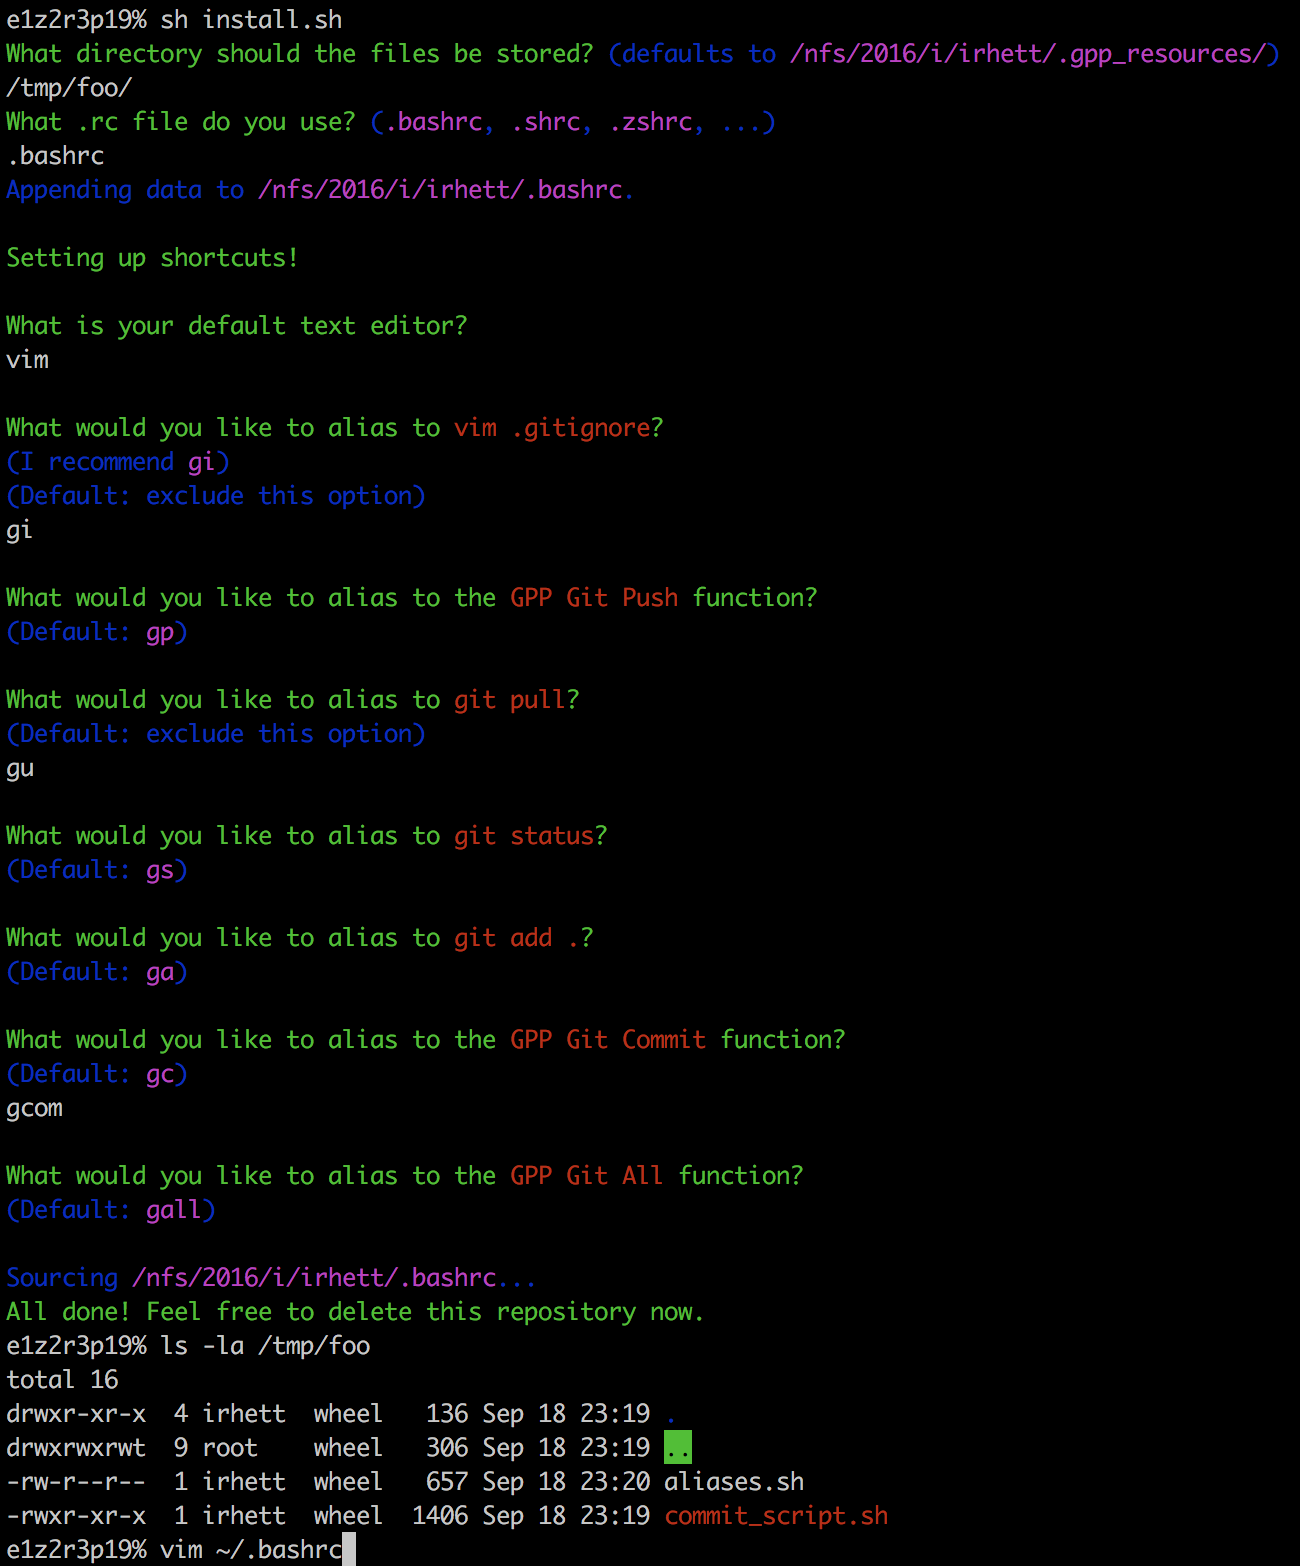
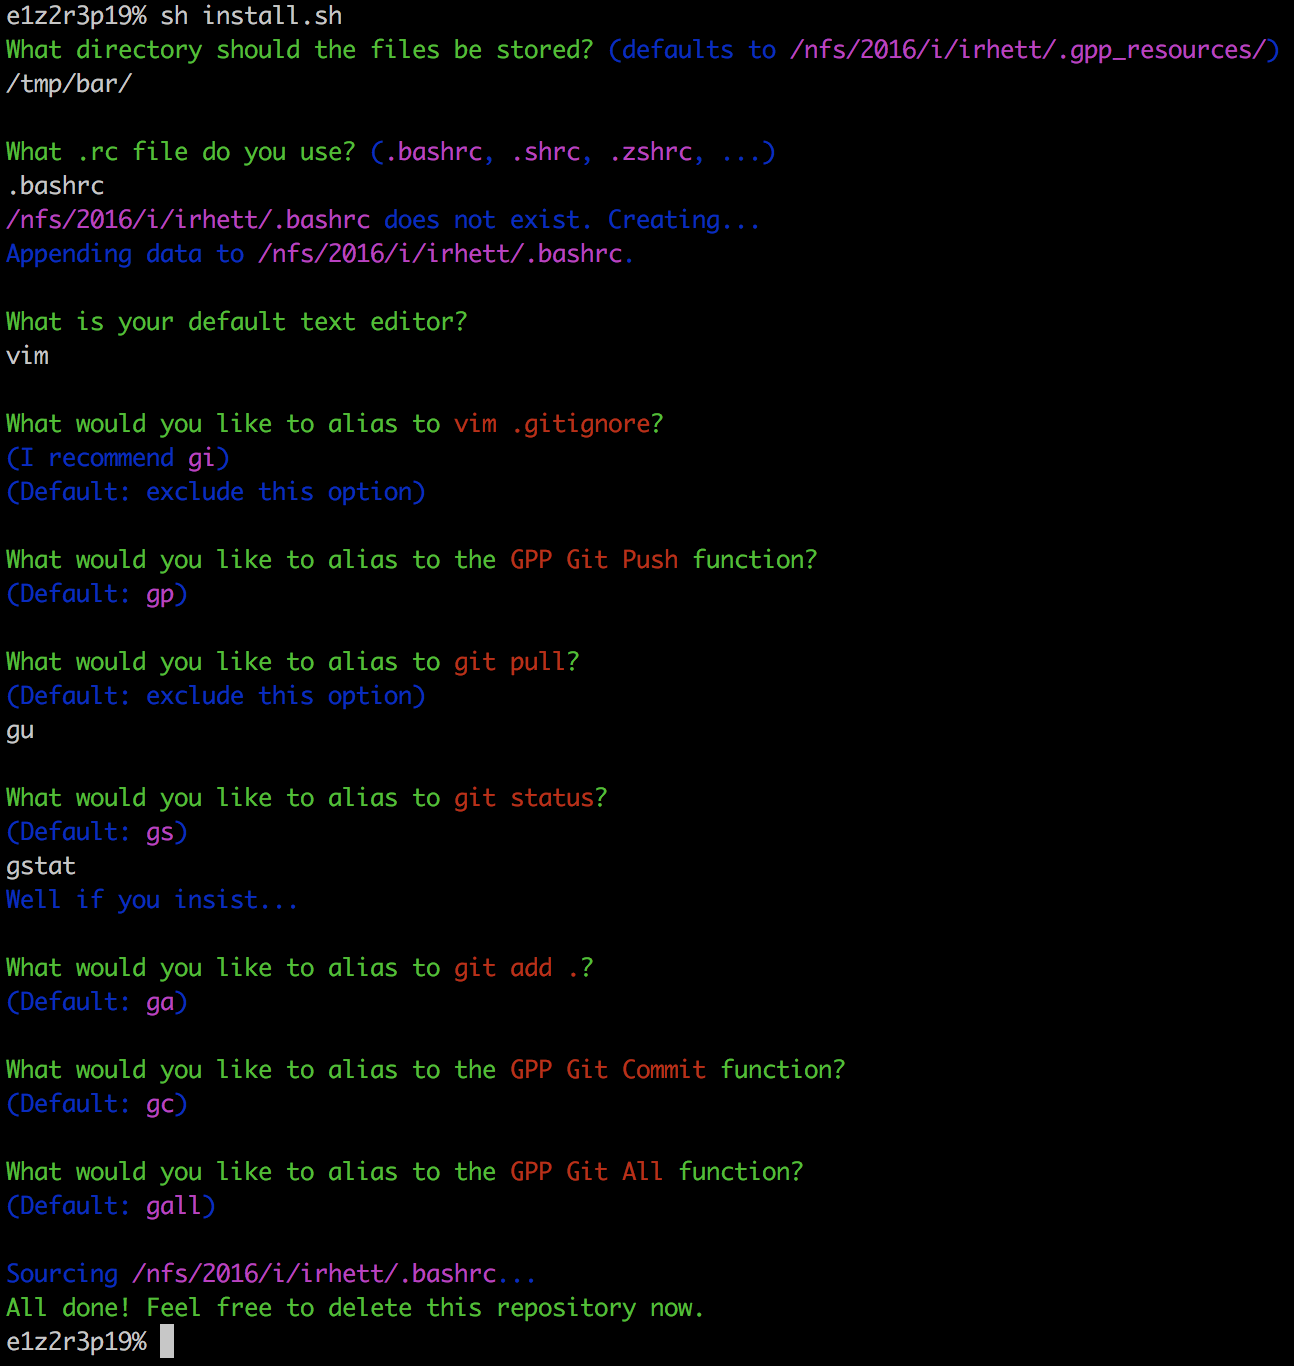
Updated Readme and revised image preview [pic/install.png] [install.sh] [README.md]

diff --git a/README.md b/README.md
@@ -2,12 +2,31 @@
 A tool for improving git commit tracking and overall command line simplification.
 
 #### Features:
- - Always [verbose commit messages](#Verbose-commits)!
+ - Fully commit a file with only [one command](#Git-Push-Plus-All) and verbose output!
+ - Always [verbose](#Verbose-commits) commit messages!
  - Multiple remote push automation!
  - Painless, one-time setup with customization!
  - Bash Wizardry!
+
+#### Setup:
+Just download and run `install.sh`, and the setup process is pretty painless. It asks you some questions about your environment and preferences, and then copies/generates the necessary files.
+<br>
+![install.sh](https://raw.githubusercontent.com/izcet/gitpushplus/master/pic/install.png)
+<br>
+It appends the necessary sourcing to the specified file:
+<br>
+![.dotfile example](https://raw.githubusercontent.com/izcet/gitpushplus/master/pic/bashrc.png)
+<br>
+And generates/copies the files being sourced:
+![aliases](https://raw.githubusercontent.com/izcet/gitpushplus/master/pic/bashrc.png)
 
 #### Verbose commits
  - Takes advantage of `grep` and `git status` to parse the changes into a string.
  - Takes optional user input to provide custom commit messages prior to the list of changed files.
 
+#### Git Push Plus All
+This command chains together all of the other shorthands to:
+ - Commit all changed files with the verbose commit option (Including a custom commit message if desired)
+ - Push to all remotes on file
+<br>
+![Git Push Plus All](https://raw.githubusercontent.com/izcet/gitpushplus/master/pic/gall.png)
